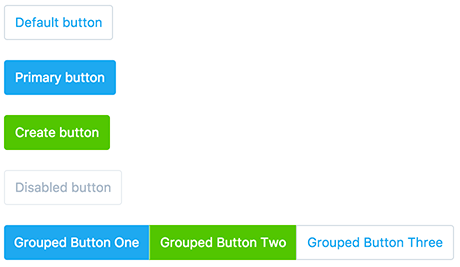
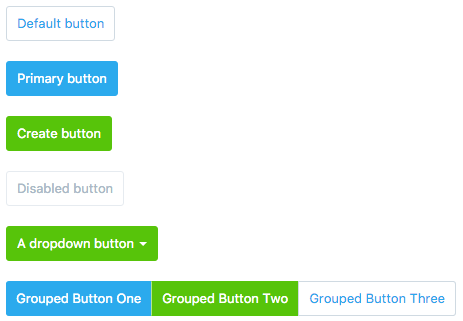
Adding in button caret for dropdowns

Changed region(s): [[0.0, 0.6592, 1.0, 0.9888], [0.0, 0.1798, 0.2739, 0.5993], [0.0, 0.03, 0.2739, 0.1498]]

diff --git a/src/XUIButton.js b/src/XUIButton.js
@@ -3,6 +3,7 @@ import Component from 'base-component';
 import cn from 'classNames';
 
 import XUIButtonGroup from './XUIButtonGroup';
+import XUIButtonCaret from './XUIButtonCaret';
 
 const propTypes = {
 	/**
@@ -14,6 +15,11 @@ const propTypes = {
 	 * @property {boolean} [isGrouped=false] If this button is part of a parent button group
 	 */
 	isGrouped: React.PropTypes.bool,
+
+	/**
+	 * @property {boolean} [includeCaret=false] Set to true if you want to style the button with a caret(i.e - a dropdown). Set to false by default
+	 */
+	includeCaret: React.PropTypes.bool,
 
 	/**
 	 * @property {function} onClick Bind a function to fire when the button is clicked
@@ -73,7 +79,8 @@ const propTypes = {
  */
 const defaultProps = {
 	isGrouped: false,
-	isDisabled: false
+	isDisabled: false,
+	includeCaret: false
 };
 
 /**
@@ -149,6 +156,19 @@ function getGroupClass(isGrouped) {
 	return isGrouped ? CSS_CLASSES.GROUP : null;
 }
 
+/**
+ * Returns the caret component if the user wants it inside the button
+ *
+ * @private
+ * @param {Boolean} includeCaret - Whether or not the button should include a caret
+ * @return {XUIButtonCaret} The caret
+ */
+function getCaretEl(includeCaret) {
+	if (includeCaret) {
+		return (<XUIButtonCaret />);
+	}
+}
+
 class XUIButton extends Component {
 
 	render() {
@@ -158,6 +178,7 @@ class XUIButton extends Component {
 		const isLink = this.props.type === 'link';
 		const href = isLink ? (props.href || '#') : null;
 		const target = isLink ? props.target : null;
+		const caret = getCaretEl(props.includeCaret);
 
 		const classNames = cn(
 				CSS_CLASSES.DEFAULT,
@@ -189,7 +210,10 @@ class XUIButton extends Component {
 				onClick={clickHandler}
 				disabled={props.isDisabled}
 				qaHook={props.qaHook}
-				className={classNames}>{props.text}</Component>
+				className={classNames}>
+					{props.text}
+					{caret}
+			</Component>
 		);
 	}
 }

diff --git a/test/ui/test.js b/test/ui/test.js
@@ -28,6 +28,12 @@ import './styles/test.scss';
 					isDisabled={true}></XUIButton>
 			</div>
 			<div className={"testButtonContainer"}>
+			<XUIButton
+					text={'A dropdown button'}
+					variant={'create'}
+					includeCaret={true}></XUIButton>
+			</div>
+			<div className={"testButtonContainer"}>
 				<XUIButtonGroup>
 					<XUIButton
 						text={'Grouped Button One'}

diff --git a/src/XUIButtonCaret.js b/src/XUIButtonCaret.js
@@ -1,0 +1,9 @@
+import React from 'react';
+
+export default class XUIButtonGroup extends React.Component {
+	render() {
+		return (
+				<span className={'xui-button--caret'}></span>
+		);
+	}
+}

diff --git a/README.md b/README.md
@@ -14,7 +14,9 @@ $ bower install --save git@github.dev.xero.com:FutureRobot/xui-button.git
 ### XUI Button Properties
 `isDisabled`: (Boolean, Optional) Determines if the button is disabled or not. Set to false by default
 
-`isGrouped`: (Boolean, Optional) If this button is part of a parent button group
+`isGrouped`: (Boolean, Optional) If this button is part of a parent button group. Set to false by default
+
+`includeCaret`: (Boolean, Optional) Set to true if you want to style the button with a caret(i.e - a dropdown). Set to false by default
 
 `onClick`: (Function, Required) Bind a function to fire when the button is clicked
 
